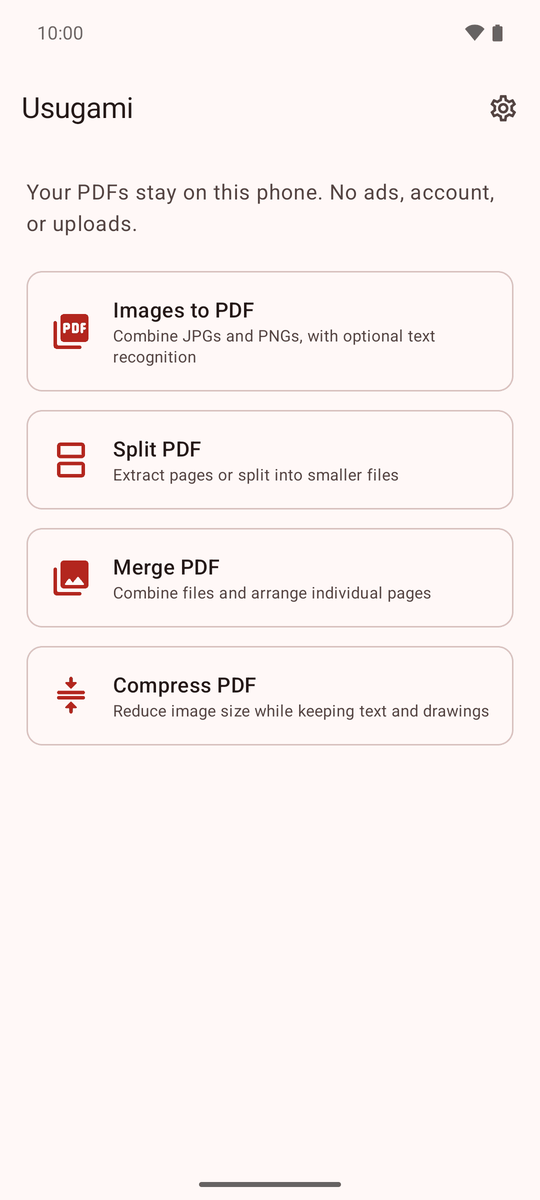
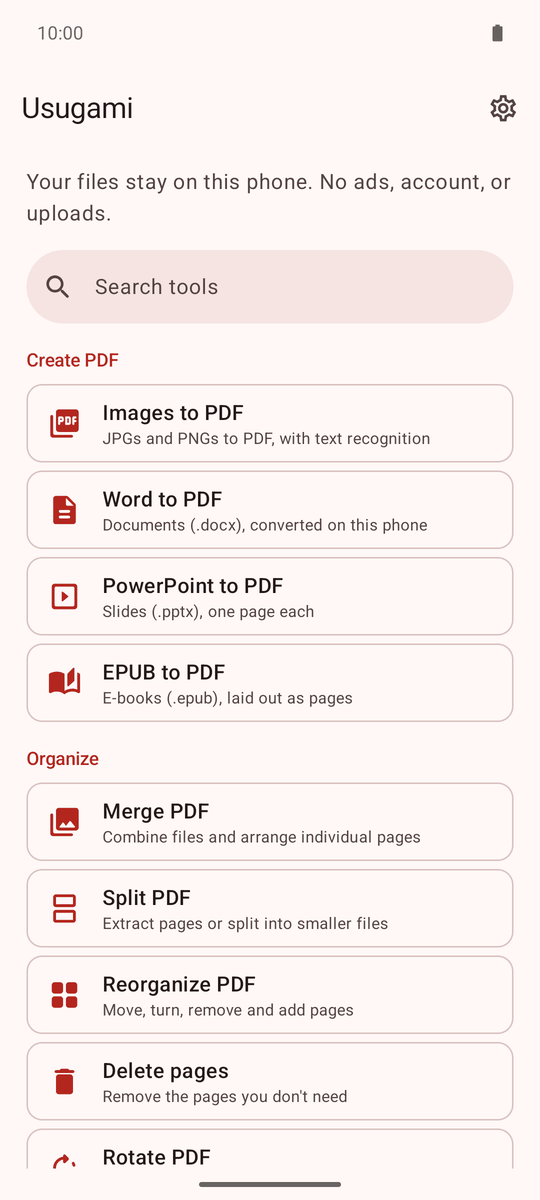
Show the new Home, with search and its four sections, in the README screenshot

diff --git a/README.md b/README.md
@@ -18,7 +18,7 @@ It was called PDFer before version 1.2.0.
 <a href="https://github.com/Nath-Goa/usugami/releases/latest/download/Usugami.apk"><img src="docs/badges/get-it-on-github.png" alt="Get Usugami on GitHub" height="80"></a>
 <a href="https://apps.obtainium.imranr.dev/redirect?r=obtainium://app/%7B%22id%22%3A%22io.github.nath_goa.usugami%22%2C%22url%22%3A%22https%3A%2F%2Fgithub.com%2FNath-Goa%2Fusugami%22%2C%22author%22%3A%22Nath-Goa%22%2C%22name%22%3A%22Usugami%22%2C%22additionalSettings%22%3A%22%7B%5C%22apkFilterRegEx%5C%22%3A%5C%22%5EUsugami%5C%5C%5C%5C.apk%24%5C%22%2C%5C%22autoApkFilterByArch%5C%22%3Afalse%2C%5C%22allowedSigningCertHashes%5C%22%3A%5C%226F%3A4F%3A23%3AAD%3AE0%3A3E%3A63%3A6A%3A7C%3AC3%3A68%3A16%3A89%3A44%3AD0%3ACC%3AFC%3A81%3A32%3AEF%3A34%3AC5%3A0B%3AC5%3AA4%3A6B%3A0C%3AA4%3ACB%3ABD%3AF4%3AED%5C%22%7D%22%7D"><img src="docs/badges/badge_obtainium.png" alt="Get it on Obtainium" height="80"></a>
 
-On your phone, tap **Get it on GitHub** to download **Usugami.apk** (about 2.5 MB), then follow the
+On your phone, tap **Get it on GitHub** to download **Usugami.apk** (about 3 MB), then follow the
 [install steps](#install). Usugami comes in two editions, compared below; if you're not sure, take
 this one.
 
@@ -27,7 +27,7 @@ Use Obtainium? Its badge adds Usugami with automatic updates. On Android 8.0 or 
 
 | | **Usugami** (recommended) | **Usugami Offline** |
 |---|---|---|
-| Download | **[Usugami.apk](https://github.com/Nath-Goa/usugami/releases/latest/download/Usugami.apk)**, about 2.5 MB | **[Usugami-offline.apk](https://github.com/Nath-Goa/usugami/releases/latest/download/Usugami-offline.apk)**, about 22 MB |
+| Download | **[Usugami.apk](https://github.com/Nath-Goa/usugami/releases/latest/download/Usugami.apk)**, about 3 MB | **[Usugami-offline.apk](https://github.com/Nath-Goa/usugami/releases/latest/download/Usugami-offline.apk)**, about 22 MB |
 | Images, Word, PowerPoint and EPUB to PDF, and every PDF tool | Fully offline | Fully offline |
 | Text recognition (OCR) for searchable PDFs | Runs on your phone through Google Play services, which downloads Google's text-recognition model the first time you use it. | Built into the app. Works with no internet, forever. |
 | Internet needed | Only for text recognition, the first time you use each language | Never |
@@ -50,7 +50,7 @@ installing the other APK over the one you have. Your files and settings are kept
 ## Screenshots
 
 <p>
-  <img src="docs/screenshots/home.png" width="200" alt="Usugami home screen with its four tools">
+  <img src="docs/screenshots/home.png" width="200" alt="Usugami home screen with search and its tools in sections">
   <img src="docs/screenshots/editor.png" width="200" alt="Arranging images before making a PDF">
   <img src="docs/screenshots/convert.png" width="200" alt="Options for creating the PDF">
   <img src="docs/screenshots/tools.png" width="200" alt="One of the PDF tools">
@@ -573,7 +573,7 @@ automatically.
 <details>
 <summary><b>How much storage does Usugami use?</b></summary>
 
-The app takes about 2.5 MB (standard) or 22 MB (offline) to download. While you work, Usugami keeps
+The app takes about 3 MB (standard) or 22 MB (offline) to download. While you work, Usugami keeps
 temporary copies of your files in its cache and deletes them automatically; you can also clear it
 in Settings → Apps → Usugami → Storage. In the standard edition, the text-recognition models are
 stored and managed by Google Play services, not by Usugami.
